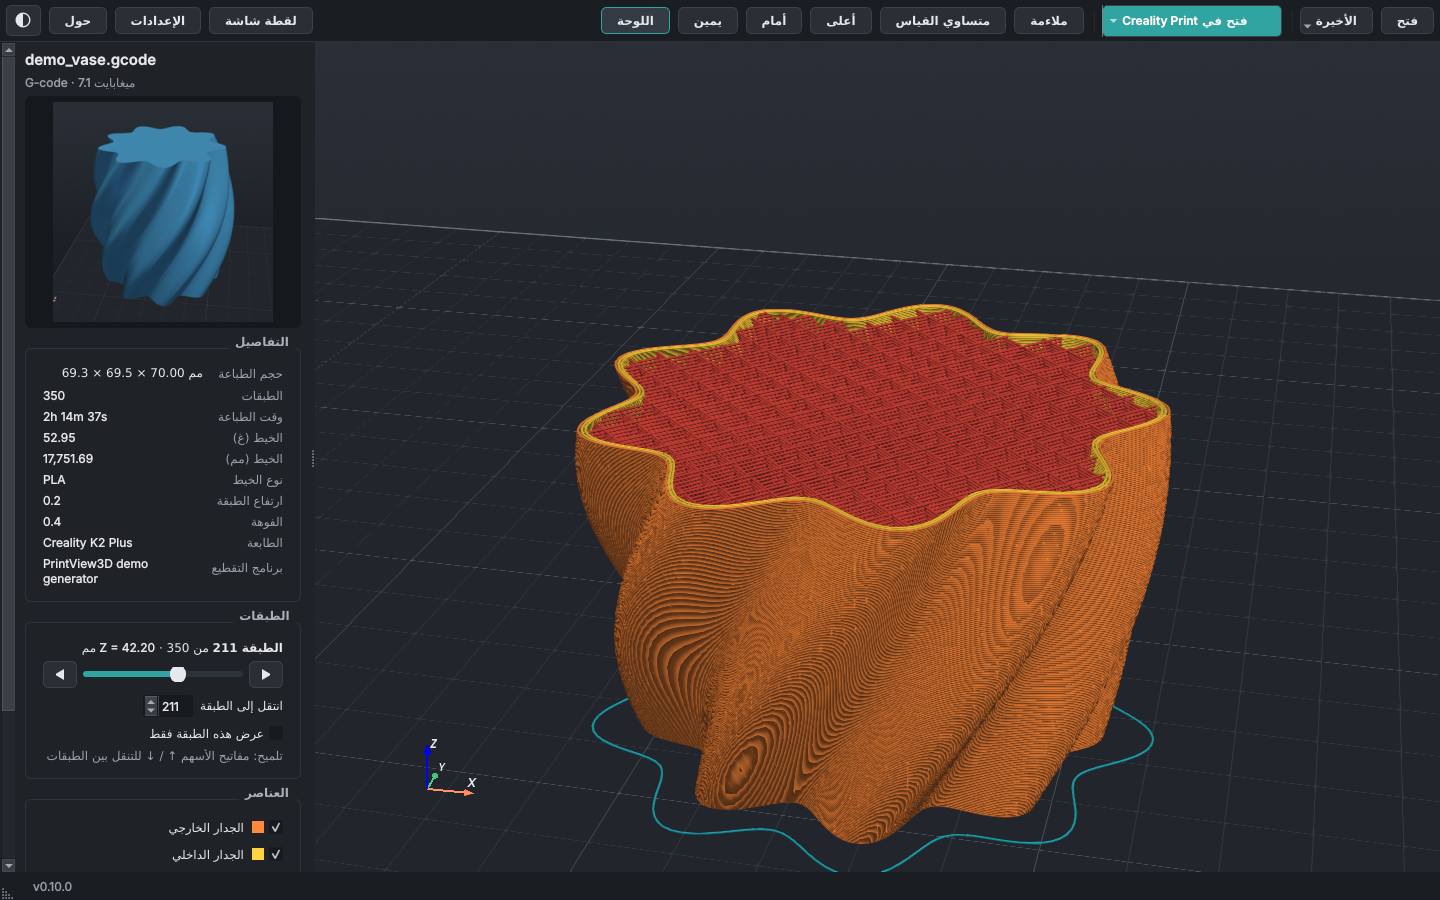
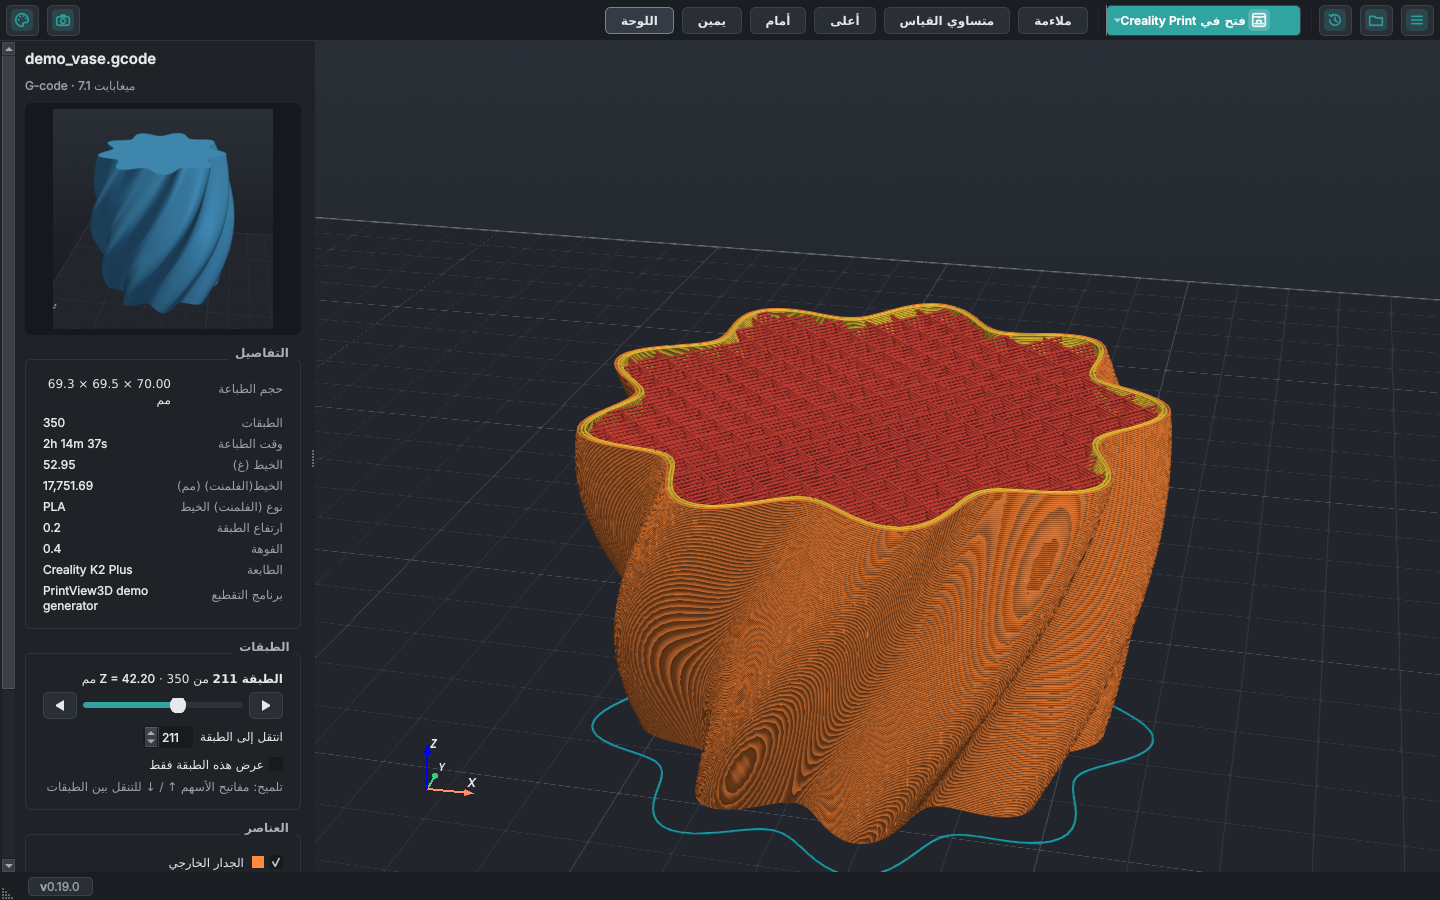
README: pictures of ZIP support and the new toolbar
- New: Show all from a ZIP, a G-code opened from a ZIP, and the
  Send to slicer dialog (from a real test on Windows, cropped to the
  app, mouse pointer and tray popup removed)
- Refreshed 14 existing pictures with tools/make_screenshots.py: they
  showed version 0.10.0 and the old text toolbar
- screenshot-freecad.png unchanged (needs FreeCAD to render)

Claude-Session: https://claude.ai/code/session_01P8WPunYT4yjKY95NUWdmyo

diff --git a/README.md b/README.md
@@ -296,6 +296,13 @@ files, for example to share a model or open it in a program that does not read 3
 Model downloads often come as a ZIP. Open it like any other file (**Open…** or drag it onto the
 window); there is no need to unpack it first.
 
+<table>
+<tr>
+<td width="50%"><img src="docs/screenshot-zip-showall.png" alt="Four models from a ZIP side by side, with the list of files in the ZIP"><br><sub><b>Show all side by side</b>: tick or untick each model; the G-code opens on its own.</sub></td>
+<td width="50%"><img src="docs/screenshot-zip-gcode.png" alt="The sliced G-code from the same ZIP, with the file list"><br><sub>Click a file in the list, or use ↑ / ↓: here the sliced G-code from the same ZIP.</sub></td>
+</tr>
+</table>
+
 - **Only the 3D files are used**: STL, 3MF, OBJ, PLY, OFF, glTF/GLB, STEP, FreeCAD and G-code.
   Pictures, PDFs, read-me files, web links, ZIPs inside the ZIP and the hidden `__MACOSX` folder
   are skipped, and the panel says how many were skipped.
@@ -312,6 +319,8 @@ window); there is no need to unpack it first.
   files. When the models to send include a 3MF, PrintView3D asks: the 3MF project (with its
   plates and settings), the other models on one plate, or **everything as STL** (the project's
   objects become a plain STL, so all models go on one plate).
+
+  <img src="docs/screenshot-zip-send.png" alt="The Send to slicer dialog: the 3MF project, the other models, or everything as STL" width="520">
 
 The 3D files are unpacked into PrintView3D's own cache folder (slicers need real files); the sizes
 are checked first, so a damaged or malicious ZIP cannot fill your disk. Files from ZIPs opened more
